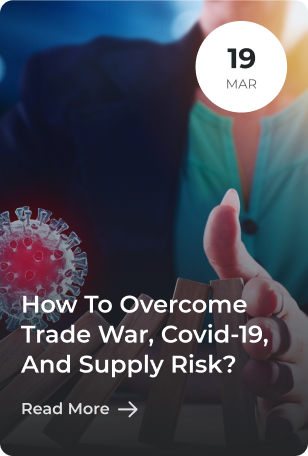
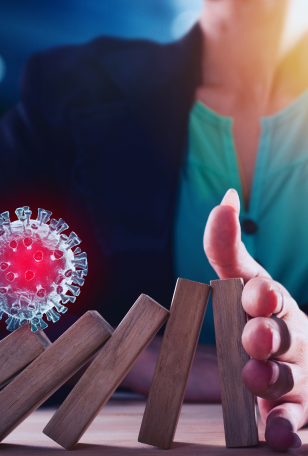
redesigned slide with news

diff --git a/index.html b/index.html
@@ -316,6 +316,13 @@
         alt="rectangle_gold_background"
       />
       <div class="text_five">
+        <div style="display: flex; justify-content: flex-end">
+          <img
+            class="small_ellipse_grey"
+            src="./img/small_ellipse.png"
+            alt="small_ellipse_grey"
+          />
+        </div>
         We Help People Succeed Personally, <br />
         Professionally, And Corporately.
         <button class="explore_now">Explore Now</button>
@@ -325,13 +332,7 @@
         src="./img/rectangle_of_dots.png"
         alt="rectangle_of_dots"
       />
-      <div class="mini_grey_ellipse">
-        <img
-          class="small_ellipse_grey"
-          src="./img/small_ellipse.png"
-          alt="small_ellipse_grey"
-        />
-      </div>
+      <div class="mini_grey_ellipse"></div>
 
       <div class="financial">
         <img
@@ -376,6 +377,11 @@
               src="./img/businessman.png"
               alt="businessman"
             />
+            <img
+            class="translucent_first"
+            src="./img/translucent.png"
+            alt="translucent"
+            />
             <img class="data" src="./img/march.png" alt="data" />
             <h3 class="title_gibson">
               Founder Wes Gibson Discusses The Gibson Approach
@@ -384,10 +390,63 @@
               Dynamically target high-payoff intellectual capital for customized
               technologies. Objectively integrate emerging...
             </p>
-            <img class="read_more" src="./img/read_more.png" alt="read_more" />
+            <h5 class="gold_read">Read More</h5>
+            <img
+            class="gold_arrow"
+            src="./img/gold_arrow.png"
+            alt="gold_arrow"
+            />
           </div>
-          <img class="virus" src="./img/covid.png" alt="virus" />
-          <img class="pandemic" src="./img/pandemic.png" alt="pandemic" />
+
+          <div class="woman_covid">
+            <img 
+            class="virus" 
+            src="./img/covid.png" 
+            alt="virus" 
+            />
+            <img
+            class="translucent"
+            src="./img/translucent.png"
+            alt="translucent"
+            />
+            <img
+            class="mar"
+            src="./img/nineteen.png"
+            alt="of Mar"
+            />
+            <p class="mini_content">How To Overcome Trade War, Covid-19, And Supply Risk?</p>
+            <h5 class="read">Read More</h5>
+            <img 
+            class="mini_arrow"
+            src="./img/arrow.png"
+            alt="arrow"
+            />
+          </div>
+
+          <div class="pandemic_improve">
+            <img 
+            class="pandemic" 
+            src="./img/pandemic.png" 
+            alt="pandemic" 
+            />
+            <img
+            class="translucent"
+            src="./img/translucent.png"
+            alt="translucent"
+            />
+            <img
+            class="dates"
+            src="./img/dates.png"
+            alt="of Mar"
+            />
+            <p class="min_info">Get Ahead Of The Pandemic Improve Your Margins</p>
+            <h5 class="read">Read More</h5>
+            <img
+            class="mini_arrow"
+            src="./img/arrow.png"
+            alt="arrow"
+            />
+          </div>
         </div>
       </div>
     </section>
@@ -405,7 +464,7 @@
             src="./img/gold_background_second.png"
             alt="background_gold"
           />
-          <h3 class="name_group">Let’s Do This Together</h3>
+          <h3 class="name_group_two">Let’s Do This Together</h3>
           <p class="content_group">
             Take the next step by learning more about Gibson Consulting’s
             capabilities and qualifications. To request information or arrange a
@@ -500,20 +559,20 @@
       <div class="lower_footer">
         <p class="footer_rights">© 2022 ABC Consulting. All Rights Reserved.</p>
         <div>
-          <a class="footer_info">
+          <a href class="footer_info">
             <img
               class="facebook"
               src="./img/facebook_icon.png"
               alt="facebook_icon"
             />
           </a>
-          <a class="footer_info">
+          <a href class="footer_info">
             <img class="inst" src="./img/inst_icon.png" alt="instagram" />
           </a>
-          <a class="footer_info">
+          <a href class="footer_info">
             <img class="twitter" src="./img/twitter_icon.png" alt="twitter" />
           </a>
-          <a class="footer_info">
+          <a href class="footer_info">
             <img
               class="pinterest"
               src="./img/pinterest_icon.png"

diff --git a/style.css b/style.css
@@ -583,12 +583,10 @@ html {
   margin-right: 82rem;
 }
 .mini_grey_ellipse {
-  width: 1200px;
+  width: 1000px;
   height: 70px;
   display: flex;
   justify-content: end;
-  /* margin-left: 150rem;
-  margin-top: -2rem; */
 }
 .small_ellipse_grey {
   z-index: 100;
@@ -688,6 +686,13 @@ html {
   position: absolute;
   z-index: 0;
   margin-right: 30px;
+  border-radius: 8px;
+}
+.translucent_first {
+  position: absolute;
+  z-index: 100;
+  width: 500px;
+  height: 315px;
 }
 .china_man {
   width: 500px;
@@ -722,6 +727,19 @@ html {
   position: absolute;
   z-index: 100;
 }
+.gold_read {
+  position: absolute;
+  z-index: 100;
+  color: #f3c977;
+  margin-top: 17.6rem;
+  margin-left: 2rem;
+}
+.gold_arrow{
+  position: absolute;
+  z-index: 100;
+  margin-top: 17.3rem;
+  margin-left: 6.5rem;
+}
 .read_more {
   width: 120px;
   height: 30px;
@@ -730,15 +748,85 @@ html {
   margin-top: 17.5rem;
   margin-left: 2rem;
 }
+.woman_covid {
+  display: flex;
+  justify-content: end;
+}
 .virus {
   width: 250px;
   height: 315px;
   margin-left: 30px;
+  border-radius: 8px;
+}
+.mar {
+  position: absolute;
+  z-index: 100;
+  display: flex;
+  margin-top: 20px;
+  margin-right: 20px;
+}
+.mini_content {
+  width: 200px;
+  height: 68px;
+  position: absolute;
+  z-index: 100;
+  font-size: 20px;
+  color: #ffffff;
+  display: flex;
+  justify-content: end;
+  margin-top: 13rem;
+  margin-right: 20px;
+}
+.pandemic_improve {
+  display: flex;
+  justify-content: end;
 }
 .pandemic {
   width: 250px;
   height: 315px;
   margin-left: 30px;
+  border-radius: 8px;
+}
+.translucent {
+  position: absolute;
+  z-index: 100;
+  width: 250px;
+  height: 315px;
+}
+.dates {
+  position: absolute;
+  z-index: 100;
+  display: flex;
+  margin-top: 20px;
+  margin-right: 20px;
+}
+.min_info {
+  width: 155px;
+  height: 68px;
+  position: absolute;
+  z-index: 100;
+  font-size: 20px;
+  color: #ffffff;
+  display: flex;
+  justify-content: end;
+  margin-top: 13rem;
+  margin-right: 65px;
+}
+.read {
+  position: absolute;
+  z-index: 100;
+  color: white;
+  font-size: 12px;
+  margin-top: 18rem;
+  margin-right: 10rem;
+}
+.mini_arrow {
+  position: absolute;
+  z-index: 100;
+  margin-top: 17.5rem;
+  margin-right: 7.5rem;
+  width: 32px;
+  height: 32px;
 }
 .last_photo {
   width: 1400px;
@@ -768,6 +856,17 @@ html {
   justify-content: center;
   margin-top: 20px;
   margin-left: 10rem;
+}
+.name_group_two {
+  width: 1400px;
+  height: 50px;
+  font-size: 35px;
+  color: white;
+  position: absolute;
+  z-index: 100;
+  display: flex;
+  justify-content: center;
+  margin-top: 80px;
 }
 .content_group {
   width: 680px;
@@ -925,7 +1024,7 @@ input[type="radio"] {
   flex-direction: column;
   justify-content: center;
   background-color: #232626;
-  max-width: 1400px;
+  width: 1400px;
   max-height: 300px;
   margin: 0 auto;
 }
